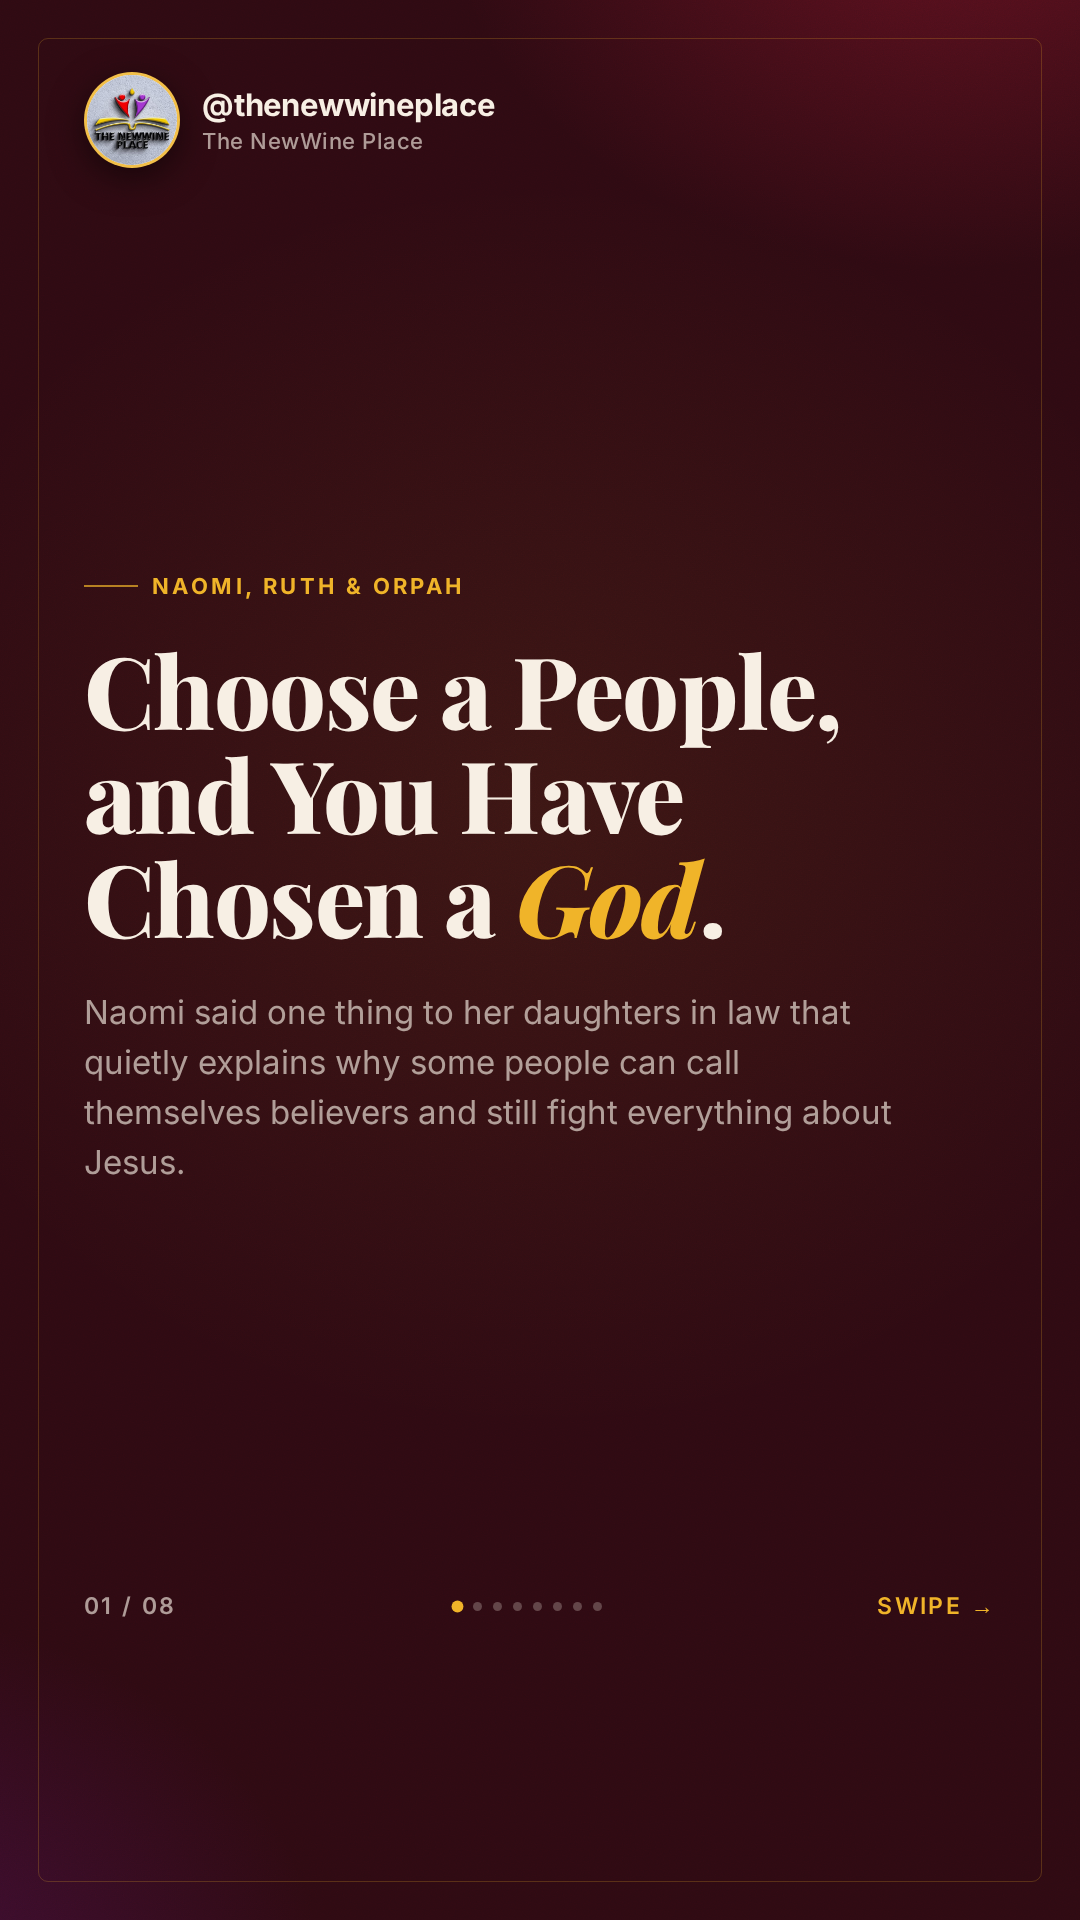
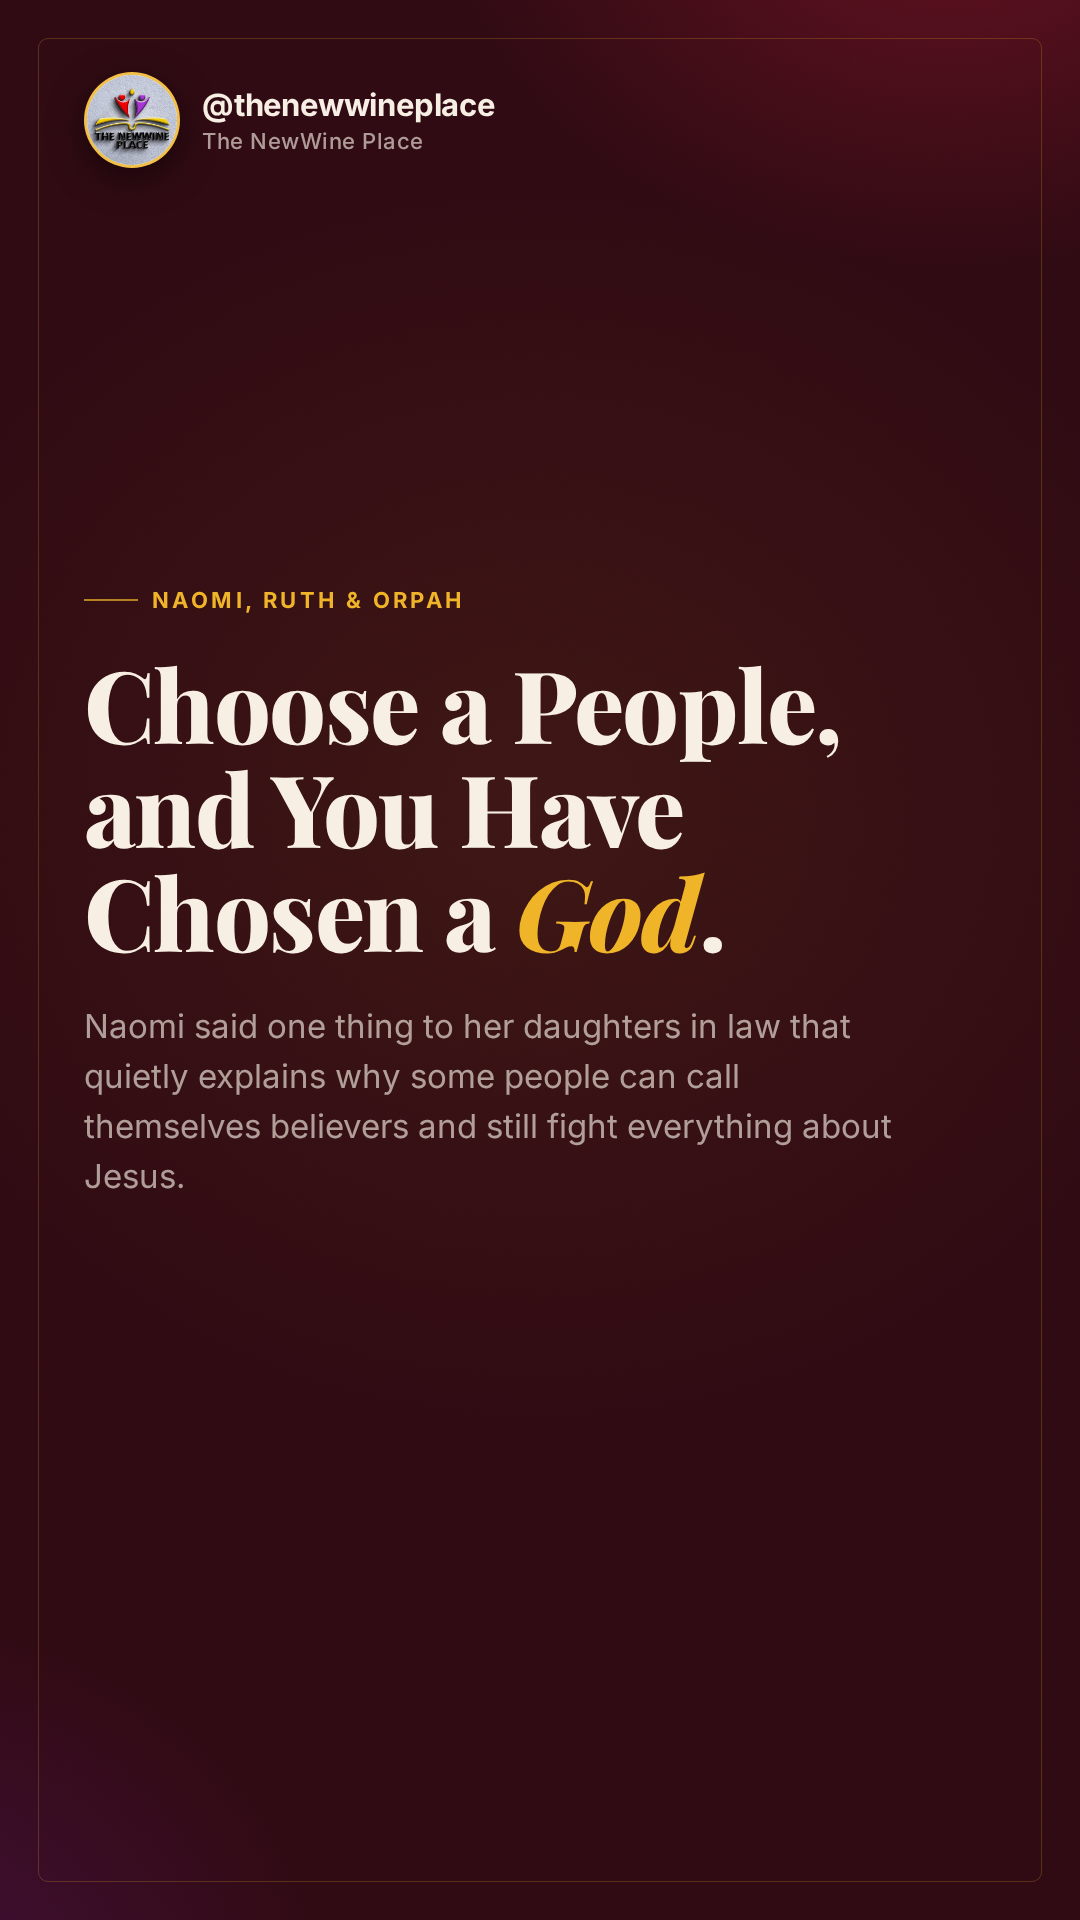
Drop the footer from the thumbnail
A slide counter, dots and "swipe" read naturally on a deck but not on a
standalone cover, so renderSlide takes a footer flag and the thumbnail
render turns it off. Regenerated for all three posts; the slides keep
their footers.

Claude-Session: https://claude.ai/code/session_01BErLzEefdLScPr5dGVbWQ2

diff --git a/CLAUDE.md b/CLAUDE.md
@@ -32,8 +32,9 @@ a vertical video format or offer one again unless he asks.
 
 **The thumbnail is the exception: 1080×1920 (9:16), at his request.** It is the
 opening slide laid out again at that size — a real render, not a crop or a pad
-of the 4:5 slide. `thumbnail` in `config.json` sets it. Don't "correct" it back
-to 4:5.
+of the 4:5 slide — and with no footer, since a slide counter and "swipe" belong
+on a deck, not on a standalone cover. `thumbnail` in `config.json` sets the
+size. Don't "correct" it back to 4:5 or put the footer back.
 
 The video carries the music bed named in `video.audio` in `slides.json` —
 Peter supplies the track. It's trimmed to the runtime, normalised to −14 LUFS,

diff --git a/tools/church-carousel/README.md b/tools/church-carousel/README.md
@@ -48,7 +48,8 @@ inside a little letterboxing.
 The thumbnail is the one exception, at **1080×1920 (9:16)** — the shape the
 vertical feeds want for a cover. It is the opening slide laid out again at that
 size rather than a crop or a pad, so nothing is cut off and the type stays
-sharp. `thumbnail` in `config.json` sets it.
+sharp. It carries no footer — a slide counter and "swipe" make no sense on a
+standalone cover. `thumbnail` in `config.json` sets the size.
 
 `formats` in `config.json` defines the deck size. The scripts loop whatever is in
 there and take `--format <name>` to build just one, so a second size can be
